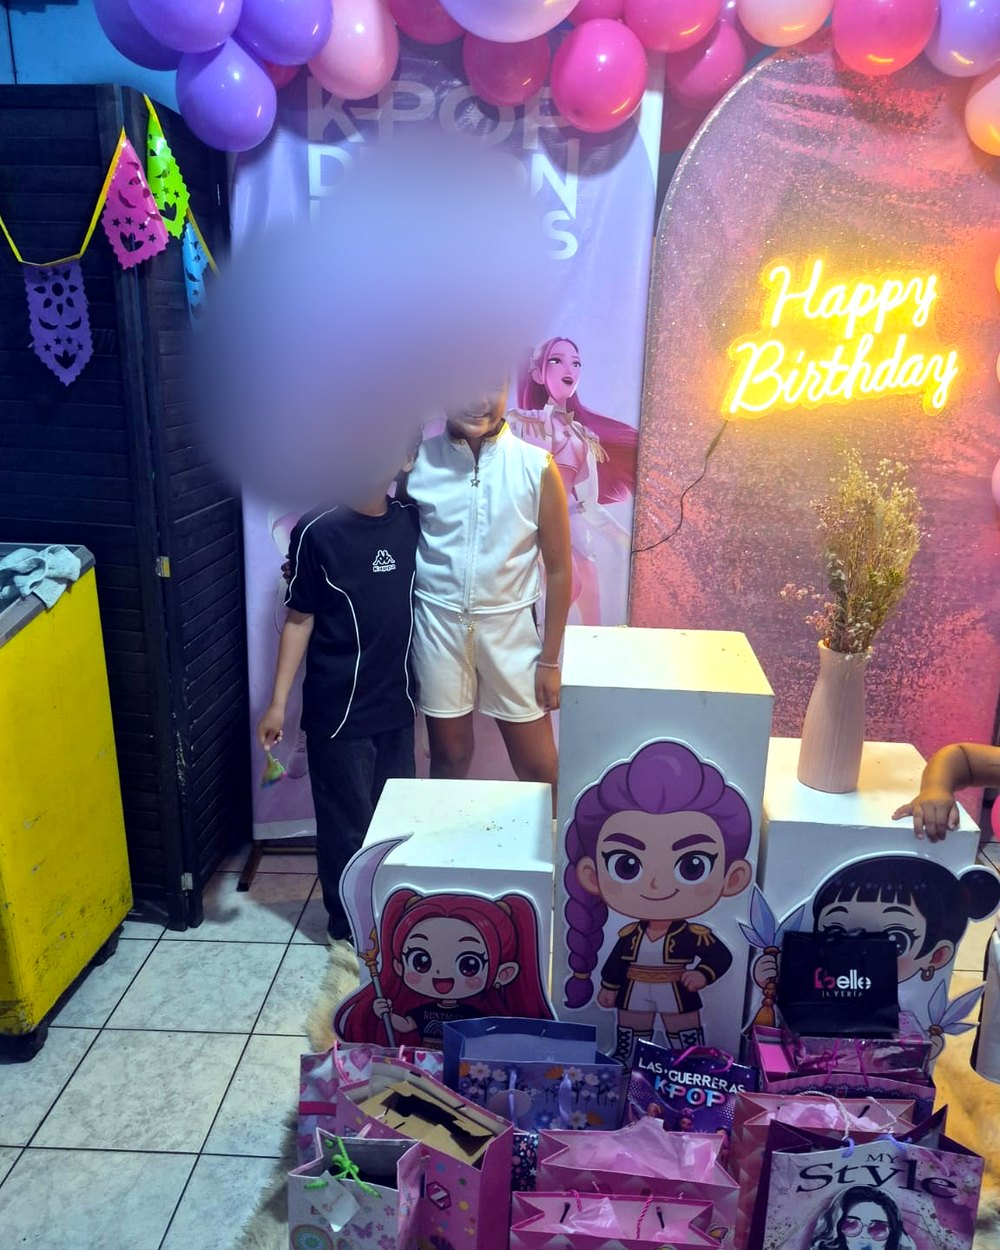
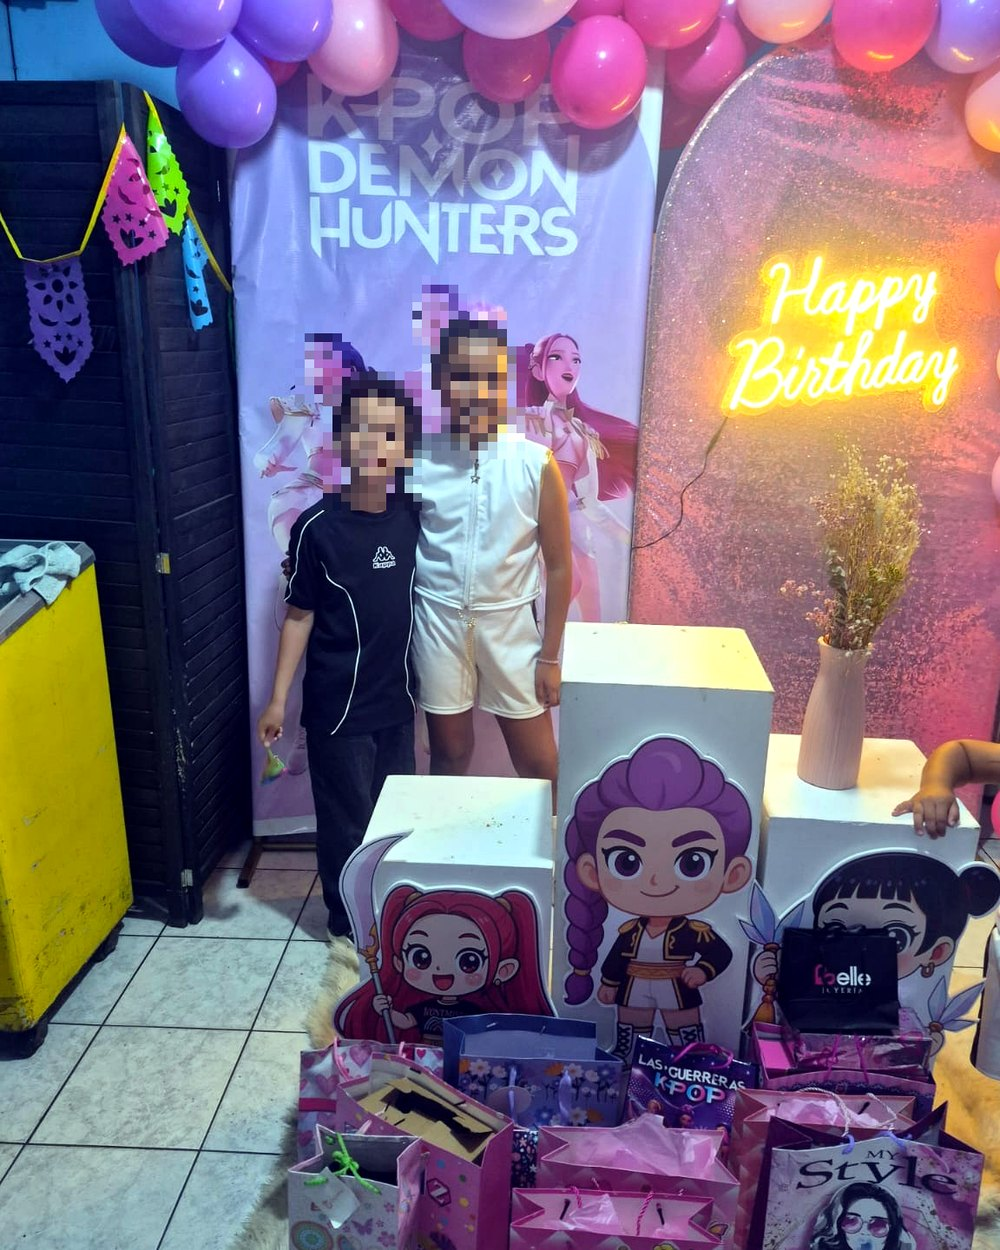
SOV DECO PARTHY: pixelado solo de rostros humanos (decoracion intacta) en Jurassic/KPOP/party + agrega Cocomelon, 14 anos, Increibles (25 fotos)
Claude-Session: https://claude.ai/code/session_01QcNCKsaXbd2PZ5iuZWoKNK

diff --git a/src/app/page.tsx b/src/app/page.tsx
@@ -69,6 +69,7 @@ const galeria: GalItem[] = [
   { label: "Bautizo", src: "/sov/galeria/g10.jpg", full: "/sov/galeria/g10f.jpg" },
   { label: "Baby Shower", src: "/sov/galeria/g5.jpg", full: "/sov/galeria/g5f.jpg" },
   { label: "Cumpleaños Minecraft", src: "/sov/galeria/g18.jpg", full: "/sov/galeria/g18f.jpg" },
+  { label: "Cumpleaños Cocomelon", src: "/sov/galeria/g23.jpg", full: "/sov/galeria/g23f.jpg" },
   { label: "Cumpleaños Elegante", src: "/sov/galeria/g4.jpg", full: "/sov/galeria/g4f.jpg" },
   { label: "Mesa de Dulces", src: "/sov/galeria/g11.jpg", full: "/sov/galeria/g11f.jpg" },
   { label: "70 Años", src: "/sov/galeria/g21.jpg", full: "/sov/galeria/g21f.jpg" },
@@ -76,11 +77,13 @@ const galeria: GalItem[] = [
   { label: "Torta de Graduación", src: "/sov/galeria/g12.jpg", full: "/sov/galeria/g12f.jpg" },
   { label: "Promoción", src: "/sov/galeria/g17.jpg", full: "/sov/galeria/g17f.jpg" },
   { label: "Cumpleaños Hot Wheels", src: "/sov/galeria/g6.jpg", full: "/sov/galeria/g6f.jpg" },
+  { label: "Los Increíbles", src: "/sov/galeria/g25.jpg", full: "/sov/galeria/g25f.jpg" },
   { label: "Cumpleaños Jurassic", src: "/sov/galeria/g15.jpg", full: "/sov/galeria/g15f.jpg" },
   { label: "Cumpleaños Dorado", src: "/sov/galeria/g19.jpg", full: "/sov/galeria/g19f.jpg" },
   { label: "Torta de Cumpleaños", src: "/sov/galeria/g13.jpg", full: "/sov/galeria/g13f.jpg" },
   { label: "Cumpleaños", src: "/sov/galeria/g16.jpg", full: "/sov/galeria/g16f.jpg" },
   { label: "Cumpleaños", src: "/sov/galeria/g22.jpg", full: "/sov/galeria/g22f.jpg" },
+  { label: "Cumpleaños 14 Años", src: "/sov/galeria/g24.jpg", full: "/sov/galeria/g24f.jpg" },
   { label: "Cumpleaños Fútbol", src: "/sov/galeria/g20.jpg", full: "/sov/galeria/g20f.jpg" },
   { label: "Juegos Inflables", src: "/sov/galeria/g7.jpg", full: "/sov/galeria/g7f.jpg" },
   { label: "Bodas de Oro", src: "/sov/galeria/g8.jpg", full: "/sov/galeria/g8f.jpg" },
